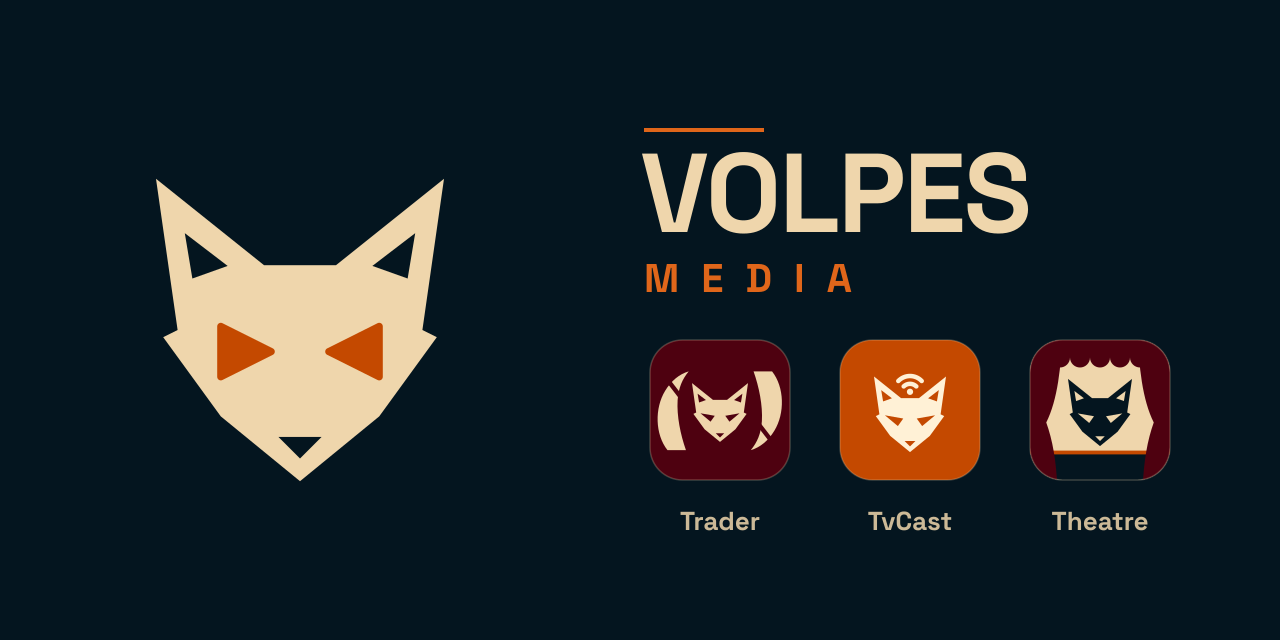
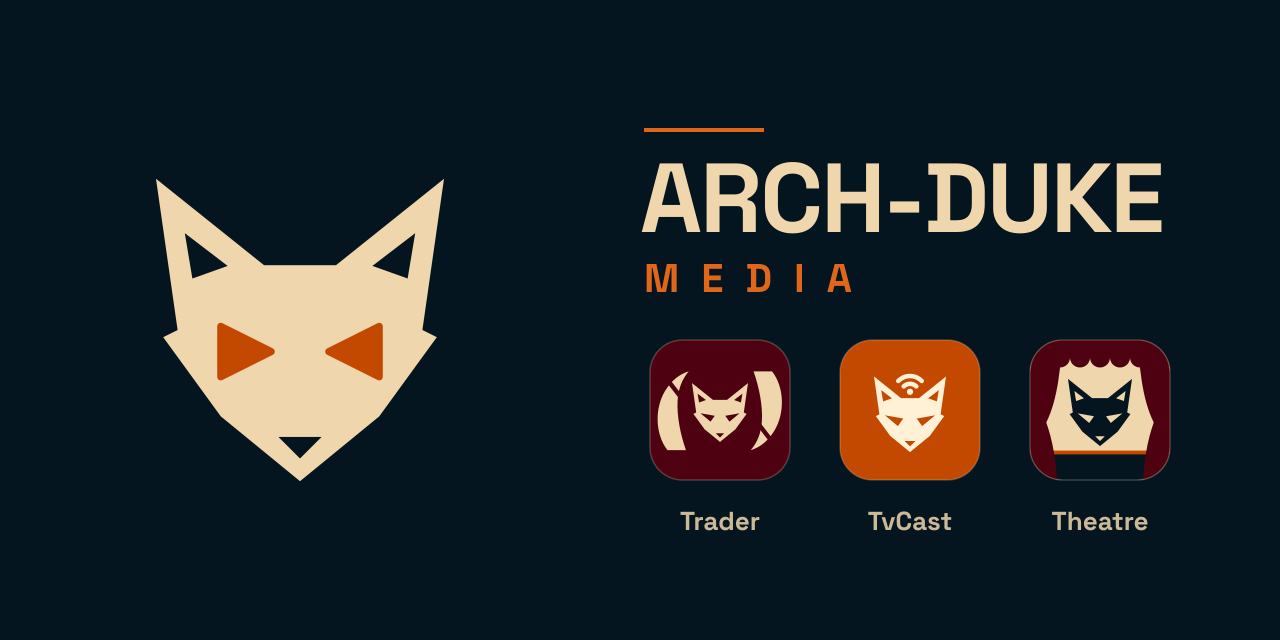
docs: introduce the organisation as arch-duke media
The organisation is now Arch-Duke Media (github.com/archdukemedia). The
profile's name, install steps (archdukemedia.github.io/apt and the
archdukemedia.gpg/.sources files), links and the design system's new
repository name follow. banner.png is the design system's new banner,
with the ARCH-DUKE MEDIA wordmark; the fox and app icons are unchanged.

Changed region(s): [[0.5, 0.2188, 0.9062, 0.375]]

diff --git a/profile/README.md b/profile/README.md
@@ -1,13 +1,13 @@
-<p align="center"><img src="banner.png" alt="Volpes-Media: a family of fox-marked media apps for the Linux desktop"></p>
+<p align="center"><img src="banner.png" alt="Arch-Duke Media: a family of fox-marked media apps for the Linux desktop"></p>
 
 <p align="center"><b>Media apps for the Linux desktop, made to work together.</b><br>
 Watch on your computer, send it to your TV, and download what you want to watch.</p>
 
 ---
 
-## What Volpes-Media makes
+## What Arch-Duke Media makes
 
-Volpes-Media is a small family of apps for Linux, built with GTK 4 and libadwaita so they look at home on GNOME, Zorin OS and Ubuntu. Each app does one job well, and they work together: a film you start in one carries on in another at the same second, with the same subtitles and the rest of the playlist.
+Arch-Duke Media is a small family of apps for Linux, built with GTK 4 and libadwaita so they look at home on GNOME, Zorin OS and Ubuntu. Each app does one job well, and they work together: a film you start in one carries on in another at the same second, with the same subtitles and the rest of the playlist.
 
 <table>
 <tr>
@@ -61,7 +61,7 @@ Download and seed torrents, and keep seeding from the top bar.
 
 ## Install
 
-All three apps come from the Volpes-Media apt repository, so new versions arrive with your normal updates (`sudo apt upgrade` or the Software Updater), a few minutes after each release.
+All three apps come from the Arch-Duke Media apt repository, so new versions arrive with your normal updates (`sudo apt upgrade` or the Software Updater), a few minutes after each release.
 
 **Works on:** Zorin OS 18, Ubuntu 24.04 or newer, Linux Mint 22 or newer, and Debian 13 or newer, on 64-bit PCs (amd64).
 
@@ -69,8 +69,8 @@ All three apps come from the Volpes-Media apt repository, so new versions arrive
 
 ```bash
 sudo install -d -m 0755 /etc/apt/keyrings
-sudo wget -qO /etc/apt/keyrings/volpesmedia.gpg https://volpesmedia.github.io/apt/volpesmedia.gpg
-sudo wget -qO /etc/apt/sources.list.d/volpesmedia.sources https://volpesmedia.github.io/apt/volpesmedia.sources
+sudo wget -qO /etc/apt/keyrings/archdukemedia.gpg https://archdukemedia.github.io/apt/archdukemedia.gpg
+sudo wget -qO /etc/apt/sources.list.d/archdukemedia.sources https://archdukemedia.github.io/apt/archdukemedia.sources
 sudo apt update
 ```
 
@@ -99,19 +99,19 @@ Every update is signed. The key's fingerprint is:
 AB9E FDAD BAD8 571D FC20  DC82 457D E12A 62F3 AD84
 ```
 
-Your system trusts this key only for the Volpes-Media repository (`Signed-By` in the `.sources` file), never for anything else.
+Your system trusts this key only for the Arch-Duke Media repository (`Signed-By` in the `.sources` file), never for anything else.
 
 To go back an app to an earlier version: `sudo apt install theatre=<version>` (the last three versions of each app are kept).
 
 To remove the repository:
 
 ```bash
-sudo rm /etc/apt/sources.list.d/volpesmedia.sources /etc/apt/keyrings/volpesmedia.gpg && sudo apt update
+sudo rm /etc/apt/sources.list.d/archdukemedia.sources /etc/apt/keyrings/archdukemedia.gpg && sudo apt update
 ```
 
 </details>
 
-More at **[volpesmedia.github.io/apt](https://volpesmedia.github.io/apt/)** and in the **[apt](https://github.com/volpesmedia/apt)** repository.
+More at **[archdukemedia.github.io/apt](https://archdukemedia.github.io/apt/)** and in the **[apt](https://github.com/archdukemedia/apt)** repository.
 
 ## What's in this organisation
 
@@ -120,8 +120,8 @@ More at **[volpesmedia.github.io/apt](https://volpesmedia.github.io/apt/)** and 
 | **theatre** | The Theatre video player |
 | **tvcast** | TvCast, casting and screen mirroring |
 | **trader-bittorrent-client** | BitTrader, the torrent app |
-| **[apt](https://github.com/volpesmedia/apt)** | The apt repository that delivers all three apps |
-| **api** | The D-Bus API (`io.github.volpesmedia.Api1`) the apps use to hand a video to each other |
-| **volpes-design-system** | Colours, type, icons and GTK styles shared by every app |
+| **[apt](https://github.com/archdukemedia/apt)** | The apt repository that delivers all three apps |
+| **api** | The D-Bus API (`io.github.archdukemedia.Api1`) the apps use to hand a video to each other |
+| **archduke-design-system** | Colours, type, icons and GTK styles shared by every app |
 
-<p align="center"><sub>Volpes-Media · Theatre · TvCast · BitTrader</sub></p>
+<p align="center"><sub>Arch-Duke Media · Theatre · TvCast · BitTrader</sub></p>
